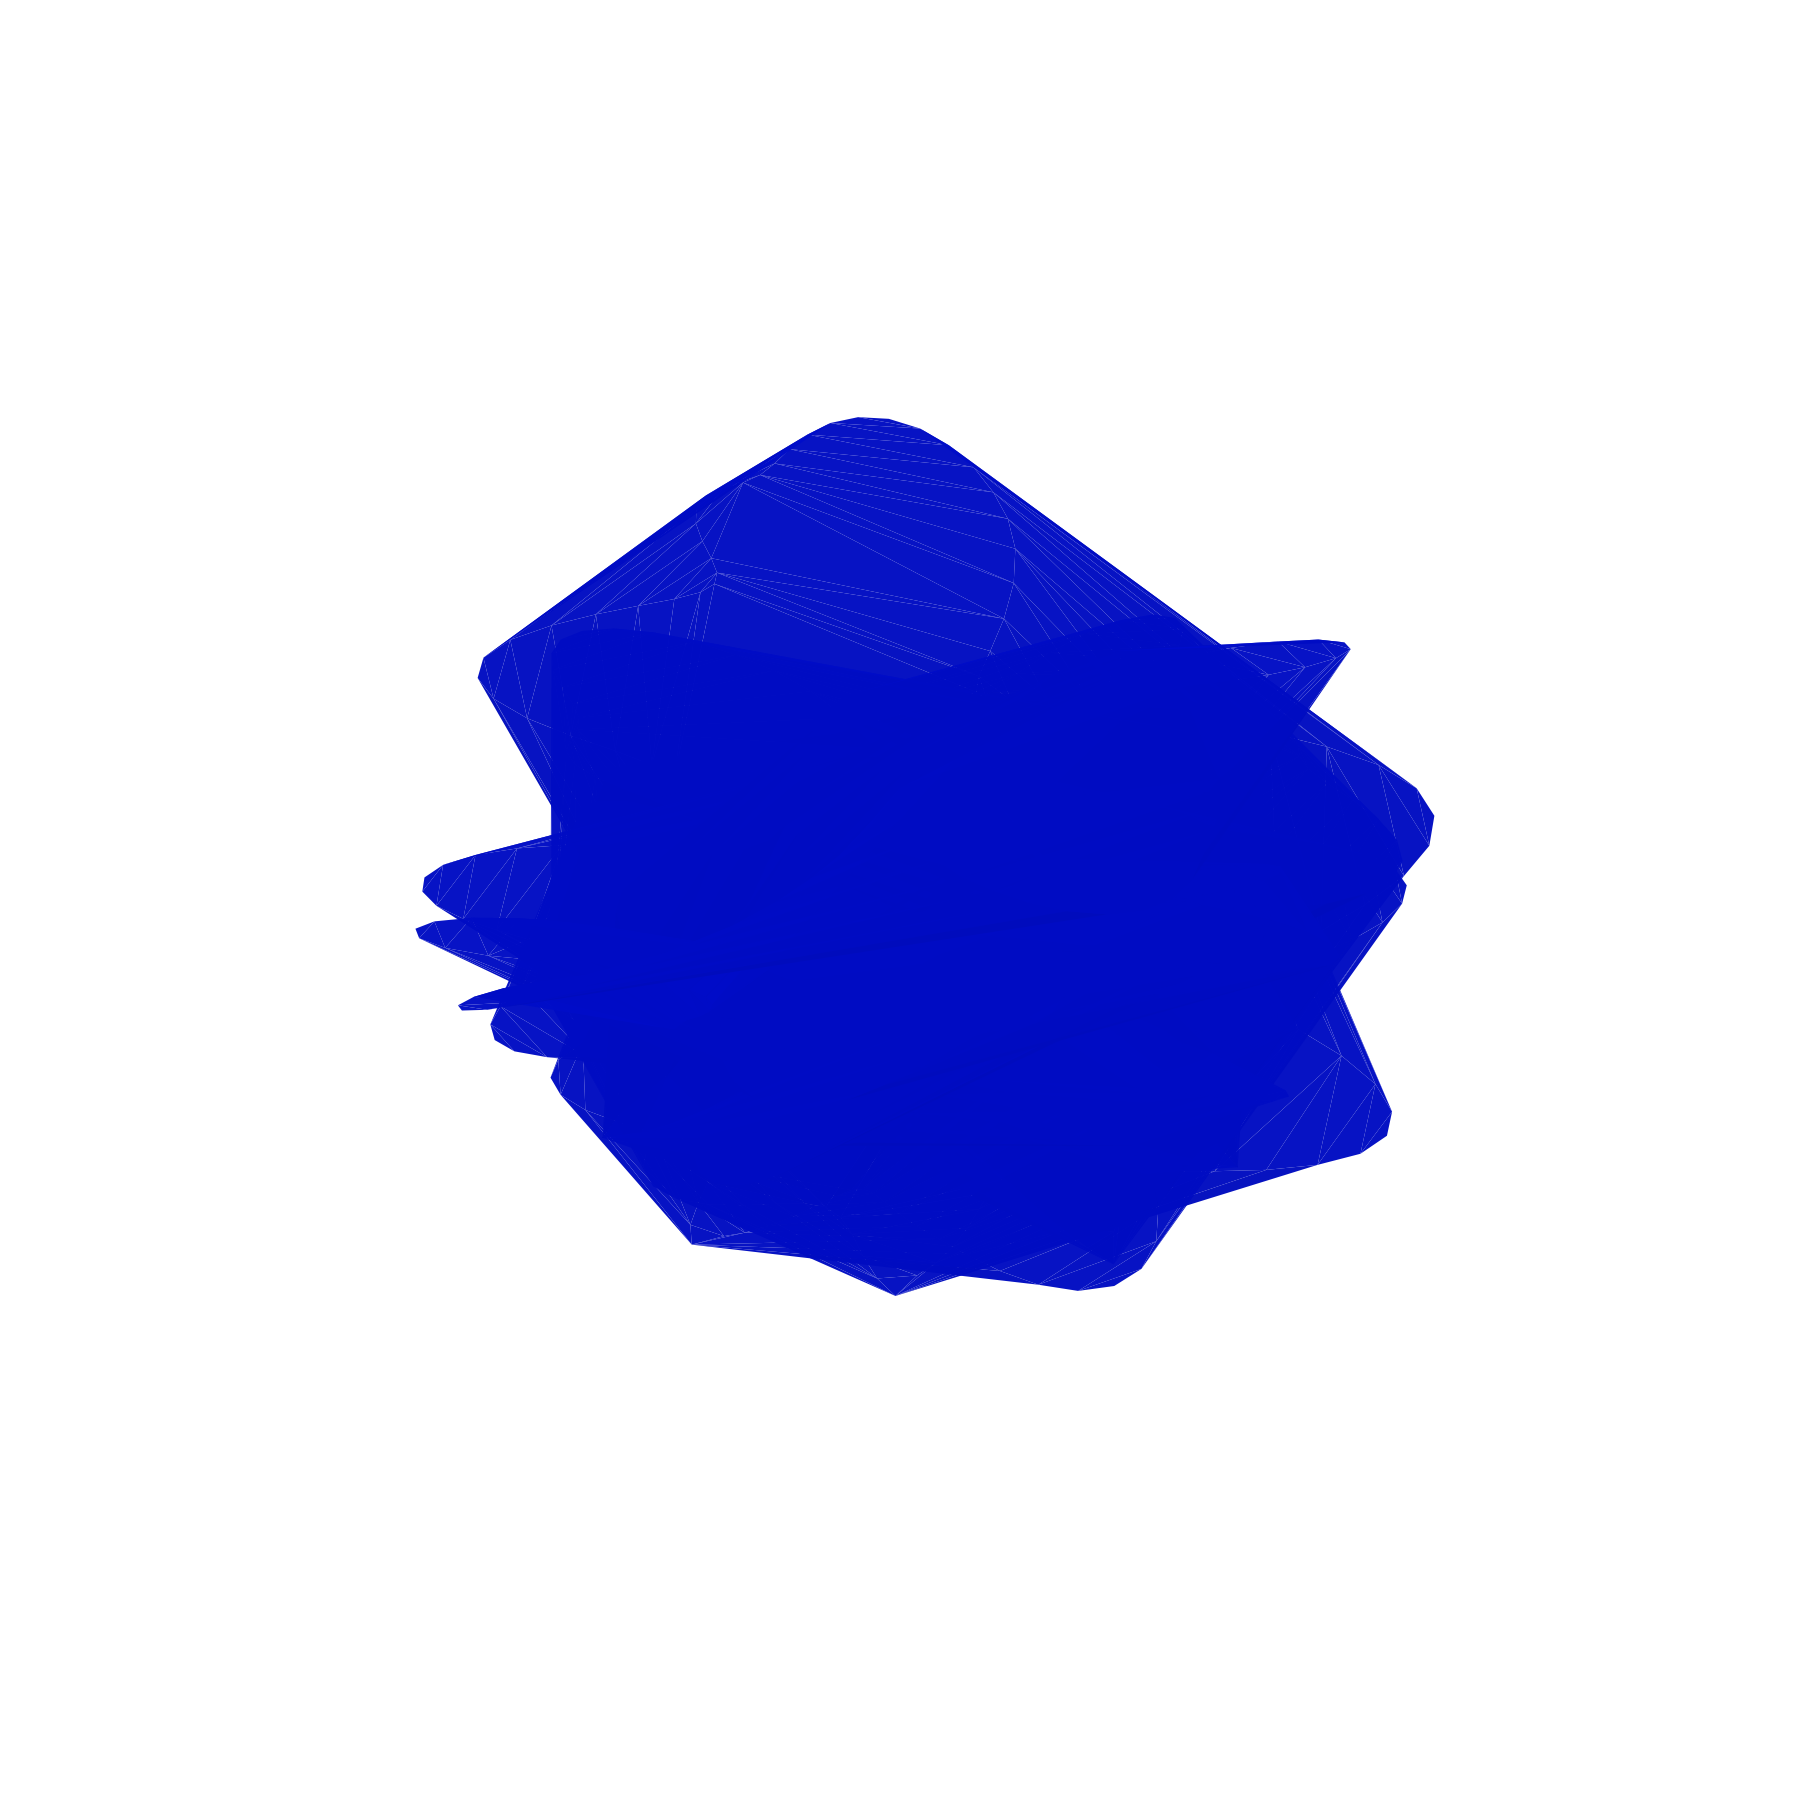
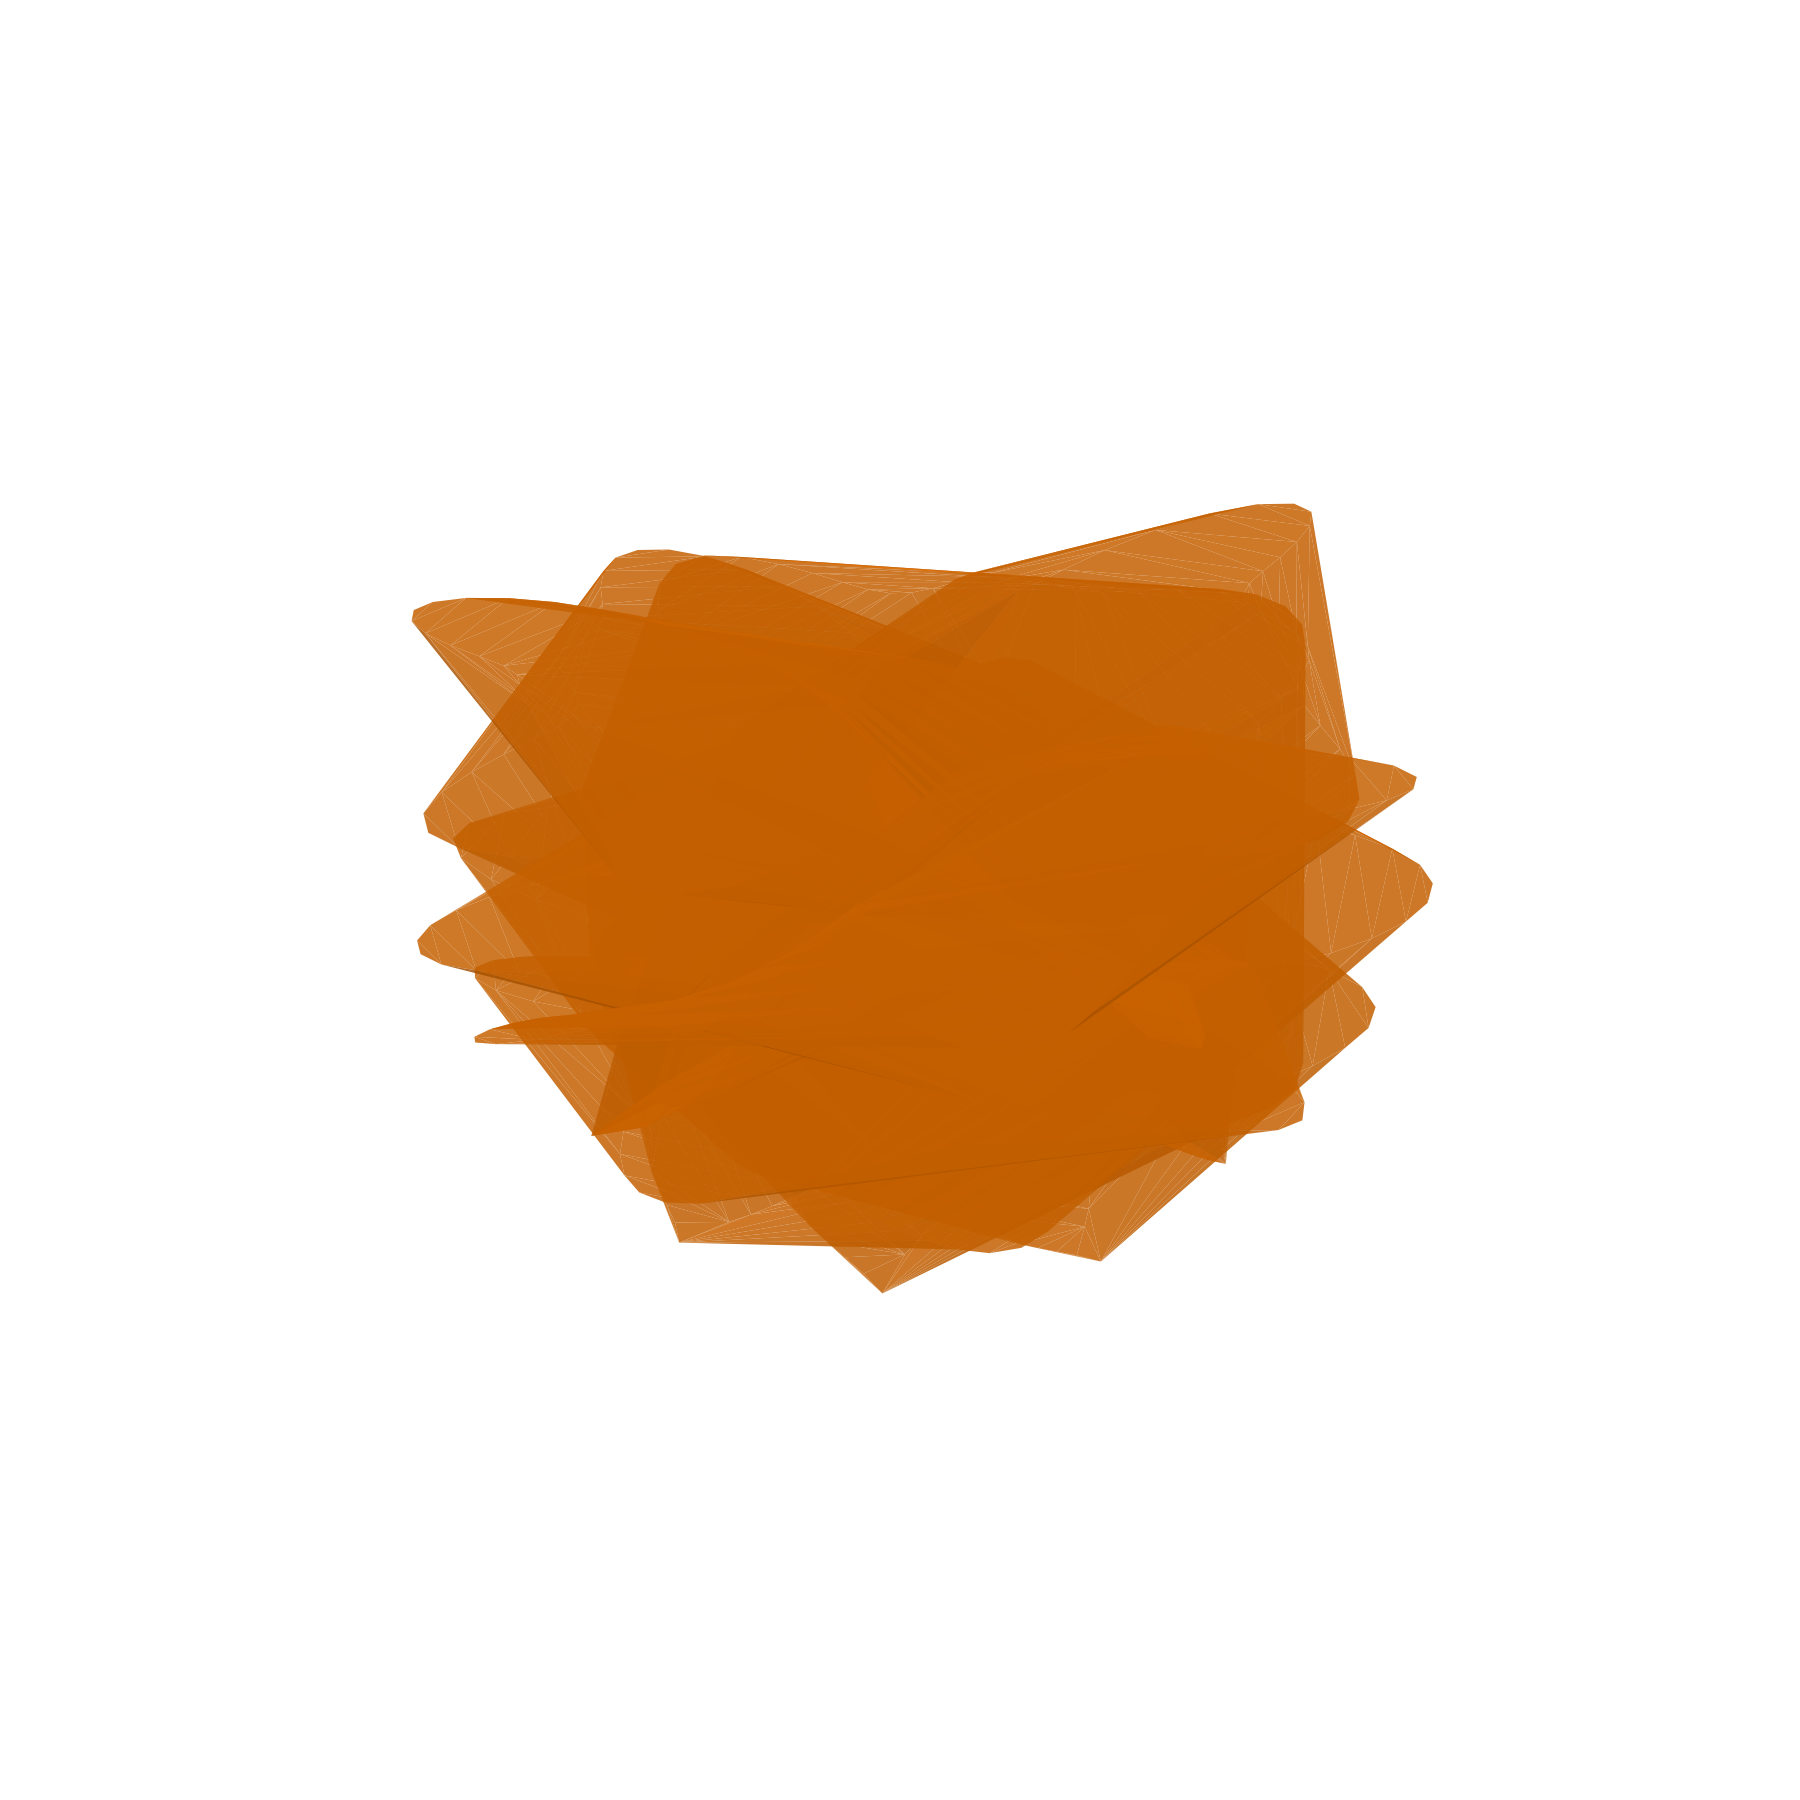
Working 2D flower model

Changed region(s): [[0.2178, 0.2178, 0.8089, 0.7156]]

diff --git a/flower.py b/flower.py
@@ -1,10 +1,11 @@
+
 import math
 import random
 import numpy as np
 import matplotlib.pyplot as plt
 from noise import pnoise2
 from math import pi as PI
-from mpl_toolkits.mplot3d import Axes3D 
+
 def norm_rand(min_val, max_val):
     return random.uniform(min_val, max_val)
 
@@ -81,36 +82,27 @@ def gen_params():
 def hsv_to_rgb(h, s, v):
     return tuple(round(i * 255) for i in plt.cm.hsv(h/360)[:3])
 
-
-def draw_flower(PAR, filename="flower_3d.png", elev=30, azim=45):
+def draw_flower(PAR, filename="flower.png"):
     shape_func = PAR['flowerShape']
     petal_count = PAR['flowerPetal']
 
-    fig = plt.figure(figsize=(6, 6))
-    ax = fig.add_subplot(111, projection='3d')
-
     angles = np.linspace(0, 2 * np.pi, 100)
-    radial = np.linspace(0, 1, 100)
-    
+    fig, ax = plt.subplots(figsize=(5, 5))
+
     for i in range(petal_count):
         offset = 2 * np.pi * i / petal_count
-        r = np.array([shape_func(x) for x in radial])
-        r = r / np.max(r)
-        r = 1 + 0.6 * r  # Scale petals outward
-
+        r = np.array([shape_func(x) for x in np.linspace(0, 1, 100)])
+        r = r / np.max(r)  
+        r = 1 + 0.6 * r 
         theta = angles + offset
         x = r * np.cos(theta)
         y = r * np.sin(theta)
 
-        z = np.sin(radial * np.pi)  # dome-like curve
-        z = np.tile(z, (len(x) // len(z)))  # repeat to match points
-        z = z[:len(x)] * norm_rand(0.1, 0.3) * PAR['flowerLength'] / 50  # scaled height
-
+        # Optional: use fixed or random petal color
         rgb = hsv_to_rgb(*PAR['flowerColor']['min'][:3])
-        ax.plot_trisurf(x, y, z, color=np.array(rgb) / 255, alpha=PAR['flowerColor']['min'][3], linewidth=0.1)
+        ax.fill(x, y, color=np.array(rgb)/255, alpha=PAR['flowerColor']['min'][3])
 
-    ax.view_init(elev=elev, azim=azim)
-    ax.set_box_aspect([1,1,0.5])  # squash z a bit for better view
+    ax.set_aspect('equal')
     ax.axis('off')
     plt.tight_layout()
     plt.savefig(filename, dpi=300)
